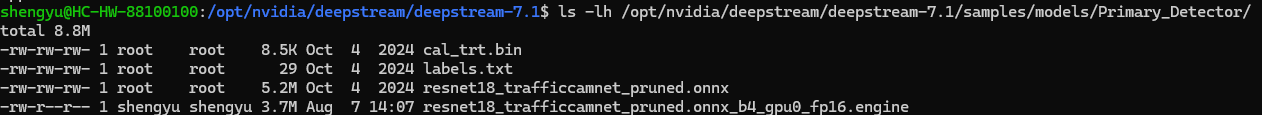
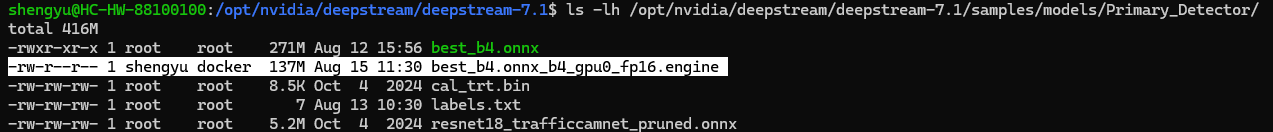
Updated Documentation

Changed region(s): [[0.0, 0.0261, 1.0, 0.8609], [0.0, 0.8609, 0.7417, 1.0]]

diff --git a/parser.cpp b/parser.cpp
@@ -1,0 +1,90 @@
+#include <cstring>
+#include <iostream>
+#include "nvdsinfer_custom_impl.h"
+#include <cassert>
+#include <cmath>
+#include <algorithm>
+#include <map>
+
+#define MIN(a,b) ((a) < (b) ? (a) : (b))
+#define MAX(a,b) ((a) > (b) ? (a) : (b))
+#define CLIP(a,min,max) (MAX(MIN(a, max), min))
+#define DIVIDE_AND_ROUND_UP(a, b) ((a + b - 1) / b)
+
+struct MrcnnRawDetection {
+    float y1, x1, y2, x2, class_id, score;
+};
+
+extern "C"
+bool NvDsInferParseCustomEfficientDetTAO(
+    std::vector<NvDsInferLayerInfo> const &outputLayersInfo,
+    NvDsInferNetworkInfo const &networkInfo,
+    NvDsInferParseDetectionParams const &detectionParams,
+    std::vector<NvDsInferObjectDetectionInfo> &objectList);
+
+extern "C"
+bool NvDsInferParseCustomEfficientDetTAO(
+    std::vector<NvDsInferLayerInfo> const &outputLayersInfo,
+    NvDsInferNetworkInfo const &networkInfo,
+    NvDsInferParseDetectionParams const &detectionParams,
+    std::vector<NvDsInferObjectDetectionInfo> &objectList)
+{
+    if (outputLayersInfo.size() != 4) {
+        std::cerr << "Mismatch in the number of output buffers."
+                  << " Expected 4 output buffers, detected in the network: "
+                  << outputLayersInfo.size() << std::endl;
+        return false;
+    }
+
+    int* p_keep_count = (int *) outputLayersInfo[0].buffer;
+    float* p_bboxes = (float *) outputLayersInfo[1].buffer;
+    NvDsInferDims inferDims_p_bboxes = outputLayersInfo[1].inferDims;
+    int numElements_p_bboxes = inferDims_p_bboxes.numElements;
+
+    float* p_scores = (float *) outputLayersInfo[2].buffer;
+    float* p_classes = (float *) outputLayersInfo[3].buffer;
+
+    const float threshold = detectionParams.perClassThreshold[0];
+
+    float max_bbox = 0;
+    for (int i = 0; i < numElements_p_bboxes; i++) {
+        if (max_bbox < p_bboxes[i])
+            max_bbox = p_bboxes[i];
+    }
+
+    if (p_keep_count[0] > 0) {
+        assert(!(max_bbox < 2.0));
+        for (int i = 0; i < p_keep_count[0]; i++) {
+            if (p_scores[i] < threshold)
+                continue;
+
+            assert((unsigned int) p_classes[i] < detectionParams.numClassesConfigured);
+
+            if (p_bboxes[4*i+2] < p_bboxes[4*i] ||
+                p_bboxes[4*i+3] < p_bboxes[4*i+1])
+                continue;
+
+            NvDsInferObjectDetectionInfo object;
+            object.classId = (int) p_classes[i];
+            object.detectionConfidence = p_scores[i];
+
+            float x1 = p_bboxes[4*i];   // left
+	    float y1 = p_bboxes[4*i+1]; // top
+	    float x2 = p_bboxes[4*i+2]; // right
+	    float y2 = p_bboxes[4*i+3]; // bottom
+
+	    object.left   = CLIP(x1, 0, networkInfo.width - 1);
+	    object.top    = CLIP(y1, 0, networkInfo.height - 1);
+	    object.width  = CLIP(x2 - x1, 0, networkInfo.width - 1);
+	    object.height = CLIP(y2 - y1, 0, networkInfo.height - 1);
+
+
+            objectList.push_back(object);
+        }
+    }
+
+    return true;
+}
+
+/* Check that the custom function has been defined correctly */
+CHECK_CUSTOM_PARSE_FUNC_PROTOTYPE(NvDsInferParseCustomEfficientDetTAO);

diff --git a/README.md b/README.md
@@ -8,8 +8,8 @@ NVIDIA DeepStream is a high-performance streaming analytics toolkit designed for
 
 ## 🧩 Features
 
-- ✅ People detection using pretrained ResNet18 (TrafficCamNet)
-- ✅ Object tracking using NvDCF (nvmultiobjecttracker)
+- ✅ Custom People detection using a custom model that takes 4 batches
+- ✅ Object tracking using multiple trackers (IOU, NvSORT, NvDeepSORT and NvDCF)
 - ✅ Tiled display (2x2) showing 4 video feeds
 - ✅ Video output saved to file (MP4)
 - ✅ Runs on DeepStream 7.1 + WSL2 (Windows Subsystem for Linux)
@@ -29,7 +29,7 @@ NVIDIA DeepStream is a high-performance streaming analytics toolkit designed for
 ## 📥 Step-by-Step Instructions
 
 
-### 1. Prepare the working environment/dir
+### 1. Prepare the working environment/DIR
 
 ```bash
 sudo apt update && sudo apt upgrade
@@ -42,20 +42,34 @@ Install gedit which is a notepad like environment for Linux Ubuntu
 sudo apt install gedit -y
 ```
 
-Change to DeepStream working dir 
-
+Change to DeepStream working DIR 
 
 ```bash
 cd /opt/nvidia/deepstream/deepstream-7.1 
 ```
 
-### 2. Copy a sample video of your choice from your windows machine to your Linux Folder (assuming the sample video is under the 'Videos' Folder on your windows machine)
+
+### 2. Prepare sample video and reID model(for some tracking configs)
 
 Make sure to replace 'YourWindowsUser' and 'YourLinuxUser' accordingly
 
+(assuming the sample video is under the 'Videos' Folder on your windows machine)
 ```bash
-cp /mnt/c/Users/YourWindowsUser/Videos/myvideo.mp4 /home/YourLinuxUser/myvideo.mp4
+cp /mnt/c/Users/YourWindowsUser/Videos/myvideo.mp4 /home/YourLinuxUser/myvideo.mp4 
 ```
+
+Create a new DIR to place the reID model to be used for tracking later on
+
+```bash
+sudo mkDIR /opt/nvidia/deepstream/deepstream-7.1/samples/models/Tracker/
+```
+
+Downloading reID model .etlt file and saving it into the newly created DIR
+
+```bash
+wget 'https://api.ngc.nvidia.com/v2/models/nvidia/tao/reidentificationnet/versions/deployable_v1.0/files/resnet50_market1501.etlt' -P /opt/nvidia/deepstream/deepstream-7.1/samples/models/Tracker/
+```
+
 
 ### 3. Create and edit the pipeline.txt 
 
@@ -68,7 +82,15 @@ Instructions:
 - Make sure to change the 'URI file' in each SOURCE section accordingly to where you place your video 
 - Also change the 'output-file' in the SINK1 section accordingly to where you want to save your video
 
-### 4. Check available models and trackers 
+
+### 4. Prepare Custom detector and tracker
+
+Make sure to replace 'YourWindowsUser' and 'YourLinuxUser' accordingly
+
+(assuming the custom detector is under the 'Downloads' Folder on your windows machine)
+```bash
+cp /mnt/c/Users/YourWindowsUser/Downloads/best_b4.onnx /opt/nvidia/deepstream/deepstream-7.1/samples/models/Primary_Detector/best_b4.onnx
+```
 
 List available detectors
 
@@ -76,28 +98,47 @@ List available detectors
 ls -lh /opt/nvidia/deepstream/deepstream-7.1/samples/models/Primary_Detector/
 ```
 
-![Available Models](Images/without_engine.png)
+![Available Detectors](Images/without_engine.png)
 
-There is no '.engine' file here, hence we need to build it.<br>
+You should be able to see the custom detector but there is no '.engine' file here, hence we need to build it.<br>
 
 List available trackers
 
 ```bash
-ls /opt/nvidia/deepstream/deepstream-7.1/lib/ 
+ls -lh /opt/nvidia/deepstream/deepstream-7.1/samples/configs/deepstream-app
 ```
+![Available Tracker Configs](Images/available_trackers.png)
 
-### 5. Create and edit the config_infer_primary.txt
+You should be able to see only 6 different config_tracker yml files
+
+
+### 5. Prepare the config_infer_primary.txt and parser
 
 ```bash
 sudo gedit config_infer_primary.txt 
 ```
 
 Instructions:
-- Copy the contents of the 'config_infer_primary.txt' and paste it inside
+- Copy the contents of the 'config_infer_primary.txt' and paste it inside <br> 
+THe config_infer_primary.txt contains the configs of the detector <br>
+
+```bash
+sudo gedit /opt/nvidia/deepstream/deepstream-7.1/sources/libs/nvdsinfer_customparser/parser.cpp
+```
+
+Instructions:
+- Copy the contents of the 'parser.cpp' and paste it inside <br>
+
+Then recompile the parser into a .so file
+
+```bash
+sudo g++ -shared -fPIC -o /opt/nvidia/deepstream/deepstream-7.1/sources/libs/nvdsinfer_customparser/libcustomparser.so "/opt/nvidia/deepstream/deepstream-7.1/sources/libs/nvdsinfer_customparser/parser.cpp"   `pkg-config --cflags --libs gstreamer-1.0`   -I/opt/nvidia/deepstream/deepstream-7.1/include   -I/opt/nvidia/deepstream/deepstream-7.1/sources/includes   -I/usr/local/cuda/include
+```
+
 
 ### 6. Run the pipeline and build the engine file
 
-Enable permission to write the built engine file into this dir first
+Enable permission to write the built engine file into this DIR first
 
 ```bash
 sudo chmod -R a+rw /opt/nvidia/deepstream/deepstream-7.1/samples/models/Primary_Detector
@@ -117,10 +158,11 @@ After running the pipeline, check if the engine file is built
 ls -lh /opt/nvidia/deepstream/deepstream-7.1/samples/models/Primary_Detector/
 ```
 
-![Avilable Models](Images/with_engine.png)
+![Available Detectors](Images/with_engine.png)
 <br>
 
-As seen here, there is an engine file now, so whenever we run the pipeline, we don't have to built the engine from scratch.
+As seen here, there is an engine file now, so whenever we run the pipeline, we don't have to rebuild the engine from scratch.
+
 
 ### 7. Edit the config_infer_primary again
 
@@ -133,7 +175,8 @@ Instruction:
 - Comment OUT the 'onnx_file' in the PROPERTY section
 - UNCOMMENT the 'model-engine-file' in the PROPERTY section
 
-### 8. Run the pipeline and save the video onto the  windows machine
+
+### 8. Run the pipeline and save the video onto the windows machine
 
 ```bash
 deepstream-app -c /opt/nvidia/deepstream/deepstream-7.1/pipeline.txt
@@ -152,13 +195,32 @@ cp /home/YourLinuxUser/output_tiled.mp4 /mnt/c/Users/YourWindowsUser/Videos/outp
 
 To save the outtputed video onto your windows machine. (Make sure to change 'YourLinuxUser' and 'YourWindowsUser' accordingly) <br>
 
+
+### 9. Trying out multiple tracker configs (IOU, NvSORT, NvDeepSORT and NvDCF) provided by DeepStream
+
+```bash
+sudo gedit pipeline.txt
+```
+
+Scroll down to the TRACKER section of the pipeline.txt until you see the highlighted section below which we can observe SIX different tracker configs
+
+![Tracker Configs](Images/tracker_configs.png)
+
+Instruction:
+- Only UNCOMMENT whichever tracker ll-config-file you want to use
+- Leave only ONE ll-config-file UNCOMMENTED and the rest Commented OUT
+<br>
+
+The NvDCF_accuracy and NvDeepSORT tracker configs uses the reID model we installed earlier but we do not have an engine file built. In order to build the engine we need to install TAO-toolkit to build it from the reID model(.etlt file)
+
 ---
+
 
 ## 📚 Resources and notes
 
 - [NVIDIA DeepStream SDK Documentation](https://docs.nvidia.com/metropolis/deepstream/dev-guide/index.html)
 
-Note:
+Notes:
 My Deepstream was installed from the tar package
 
 ---
